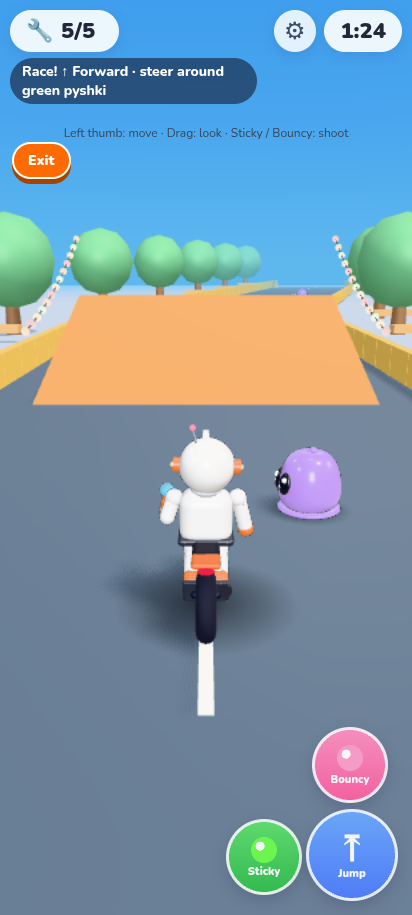
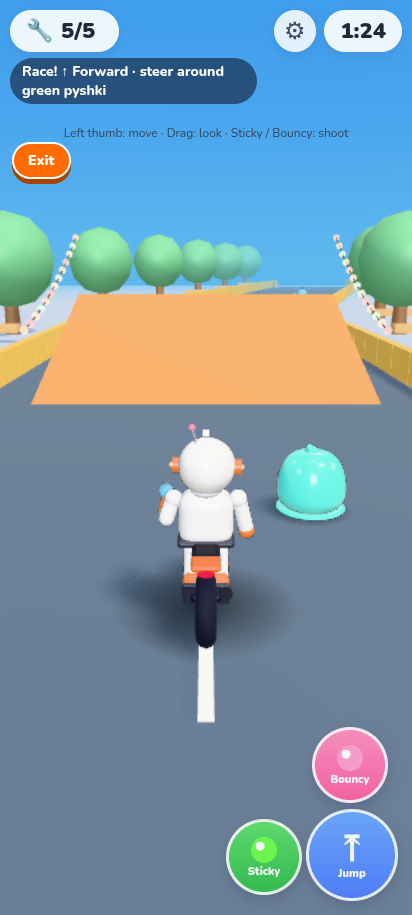
Add level 2 coastal race course and scooter handling

diff --git a/src/render/raceRoad.ts b/src/render/raceRoad.ts
@@ -1,10 +1,20 @@
 import * as THREE from 'three';
 import { Kit, geo } from './materials';
 import { wedge } from './city';
-import { trackAt, TRACK_LENGTH, JUMPS, GAP, TRACK, RAMP_HEIGHT, RAMP_LENGTH } from '../sim/track';
+import { courseAt, COURSE2_SECTIONS } from '../sim/track';
+import type { RaceDef } from '../sim/levels';
 
-// Shared mitered edges: chunks and bends meet at identical vertices without overlapping faces.
-const distances = [0];
+export type RoadTheme = 'city' | 'harbor';
+
+export function buildRaceRoad(race: RaceDef, theme: RoadTheme) {
+  const course = race.course, TRACK = course.points, TRACK_LENGTH = course.length;
+  const trackAt = (d: number) => courseAt(course, d);
+  const { jumps: JUMPS, gap: GAP, rampHeight: RAMP_HEIGHT, rampLength: RAMP_LENGTH } = course;
+  const harbor = theme === 'harbor';
+  const [boardFrom, boardTo] = COURSE2_SECTIONS.boardwalk;
+  const onBoardwalk = (d: number) => harbor && d >= boardFrom && d < boardTo;
+  // Shared mitered edges: chunks and bends meet at identical vertices without overlapping faces.
+  const distances = [0];
 for (let i = 1; i < TRACK.length; i++) distances.push(distances[i - 1] + Math.hypot(TRACK[i].x - TRACK[i - 1].x, TRACK[i].z - TRACK[i - 1].z));
 const edges = TRACK.map((_, i) => {
   const a = trackAt(Math.max(0, distances[i] - 0.001)), b = trackAt(distances[i] + 0.001);
@@ -12,7 +22,7 @@ const edges = TRACK.map((_, i) => {
   const scale = 1 / (nx * -b.dz + nz * b.dx);
   return { x: nx * scale, z: nz * scale };
 });
-function roadPoint(d: number, lane: number) {
+  function roadPoint(d: number, lane: number) {
   let i = 0;
   while (i < TRACK.length - 2 && d > distances[i + 1]) i++;
   const t = (d - distances[i]) / (distances[i + 1] - distances[i]);
@@ -20,24 +30,52 @@ function roadPoint(d: number, lane: number) {
     0.015, TRACK[i].z + (TRACK[i + 1].z - TRACK[i].z) * t + lane * (edges[i].z + (edges[i + 1].z - edges[i].z) * t)];
 }
 
-export function buildRaceRoad() {
   const root = new THREE.Group();
+  const RAIL = harbor ? 0xf4f7fb : 0xf6cc69;
+  if (harbor) {
+    // One sea plane under the whole coast; the road reads as a causeway.
+    const sea = new THREE.Mesh(new THREE.PlaneGeometry(700, 700).rotateX(-Math.PI / 2), new THREE.MeshStandardMaterial({ color: 0x2fb5c9, roughness: 0.25 }));
+    sea.position.set(160, -0.3, -170); sea.name = 'race-sea'; sea.receiveShadow = true;
+    root.add(sea);
+  }
   for (let start = 0; start < TRACK_LENGTH; start += 70) {
     const k = new Kit(), end = Math.min(start + 70, TRACK_LENGTH);
-    const cuts = [start, ...distances.filter(d => d > start && d < end), ...[GAP.start, GAP.end].filter(d => d > start && d < end), end].sort((a, b) => a - b);
-    const vertices: number[] = [];
+    const gapCuts = GAP ? [GAP.start, GAP.end] : [];
+    const cuts = [start, ...distances.filter(d => d > start && d < end), ...gapCuts.filter(d => d > start && d < end), end].sort((a, b) => a - b);
+    const surfaces = new Map<number, number[]>();
     for (let i = 1; i < cuts.length; i++) {
-      const a = cuts[i - 1], b = cuts[i], left = a >= GAP.start && a < GAP.end ? 0 : -7;
+      const a = cuts[i - 1], b = cuts[i], left = GAP && a >= GAP.start && a < GAP.end ? 0 : -7;
       const al = roadPoint(a, left), ar = roadPoint(a, 7), bl = roadPoint(b, left), br = roadPoint(b, 7);
-      vertices.push(...al, ...ar, ...bl, ...ar, ...br, ...bl);
+      const color = onBoardwalk(a) ? 0xb4794b : harbor ? 0x5d6a7a : 0x596b80;
+      if (!surfaces.has(color)) surfaces.set(color, []);
+      surfaces.get(color)!.push(...al, ...ar, ...bl, ...ar, ...br, ...bl);
+      if (harbor && !onBoardwalk(a)) {
+        // stone causeway skirt down to the water on both sides
+        for (const side of [-7, 7]) {
+          const p0 = roadPoint(a, side), p1 = roadPoint(b, side);
+          surfaces.set(0xc9c2b4, [...(surfaces.get(0xc9c2b4) ?? []), p0[0], -0.35, p0[2], p1[0], -0.35, p1[2], p0[0], 0.01, p0[2], p1[0], -0.35, p1[2], p1[0], 0.01, p1[2], p0[0], 0.01, p0[2]]);
+        }
+      }
     }
-    const pavement = new THREE.BufferGeometry();
-    pavement.setAttribute('position', new THREE.Float32BufferAttribute(vertices, 3)); pavement.computeVertexNormals();
-    k.add(pavement, 0x596b80, { cast: false }); pavement.dispose();
+    for (const [color, vertices] of surfaces) {
+      const g = new THREE.BufferGeometry();
+      g.setAttribute('position', new THREE.Float32BufferAttribute(vertices, 3)); g.computeVertexNormals();
+      k.add(g, color, { cast: false, finish: color === 0xb4794b ? 'soft' : 'matte' }); g.dispose();
+    }
     for (let d = start; d < end; d += 2) {
-      const p = trackAt(d + 1), length = Math.min(2.1, end - d + 0.1);
-      for (const side of [-1, 1]) k.add(new THREE.BoxGeometry(0.35, 1.1, length), 0xf6cc69, { p: [p.x - p.dz * side * 6.8, 0.55, p.z + p.dx * side * 6.8], r: [0, p.yaw, 0] });
-      if (d % 8 < 2) k.add(new THREE.BoxGeometry(0.15, 0.025, 2), 0xffffff, { p: [p.x, 0.065, p.z], r: [0, p.yaw, 0] });
+      const p = trackAt(d + 1), length = Math.min(2.1, end - d + 0.1), board = onBoardwalk(d);
+      if (board) {
+        // plank seams, low wooden rail with posts
+        k.add(new THREE.BoxGeometry(14, 0.02, 0.06), 0x8a5a38, { p: [p.x, 0.03, p.z], r: [0, p.yaw, 0], cast: false });
+        for (const side of [-1, 1]) {
+          k.add(new THREE.BoxGeometry(0.2, 0.2, length), 0xfffaf0, { p: [p.x - p.dz * side * 6.8, 1, p.z + p.dx * side * 6.8], r: [0, p.yaw, 0] });
+          k.add(new THREE.BoxGeometry(0.22, 1, 0.22), 0x8a5a38, { p: [p.x - p.dz * side * 6.8, 0.5, p.z + p.dx * side * 6.8], r: [0, p.yaw, 0] });
+        }
+      } else {
+        for (const side of [-1, 1]) k.add(new THREE.BoxGeometry(0.35, 1.1, length), RAIL, { p: [p.x - p.dz * side * 6.8, 0.55, p.z + p.dx * side * 6.8], r: [0, p.yaw, 0] });
+        if (harbor && d % 4 < 2) for (const side of [-1, 1]) k.add(new THREE.BoxGeometry(0.37, 0.25, 2.12), 0x2f6fb5, { p: [p.x - p.dz * side * 6.8, 0.85, p.z + p.dx * side * 6.8], r: [0, p.yaw, 0], cast: false });
+        if (d % 8 < 2) k.add(new THREE.BoxGeometry(0.15, 0.025, 2), 0xffffff, { p: [p.x, 0.065, p.z], r: [0, p.yaw, 0] });
+      }
     }
     // Round off polyline joins so the outside of each bend has continuous pavement.
     let progress = 0;
@@ -48,12 +86,14 @@ export function buildRaceRoad() {
       for (const side of [-1, 1]) {
         const ax = node.x - a.dz * side * 6.8, az = node.z + a.dx * side * 6.8;
         const bx = node.x - b.dz * side * 6.8, bz = node.z + b.dx * side * 6.8;
-        k.add(new THREE.BoxGeometry(0.4, 1.1, Math.hypot(bx - ax, bz - az) + 0.4), 0xf6cc69,
+        k.add(new THREE.BoxGeometry(0.4, 1.1, Math.hypot(bx - ax, bz - az) + 0.4), RAIL,
           { p: [(ax + bx) / 2, 0.55, (az + bz) / 2], r: [0, Math.atan2(bx - ax, bz - az), 0] });
       }
     }
     for (let d = start + 8; d < end; d += 14) {
-      const p = trackAt(d), section = Math.floor(start / 140);
+      const p = trackAt(d);
+      if (harbor) { harborScenery(k, d, p); continue; }
+      const section = Math.floor(start / 140);
       for (const side of [-1, 1]) {
         const x = p.x - p.dz * side * 11, z = p.z + p.dx * side * 11;
         if (section === 0) {
@@ -76,8 +116,8 @@ export function buildRaceRoad() {
     }
     const bulbs: THREE.Vector3[] = [];
     for (const d of JUMPS.filter(d => d >= start && d < end)) {
-      const p = trackAt(d + 4), optional = d === 350, lane = optional ? -3.5 : 0;
-      k.add(wedge(RAMP_LENGTH, RAMP_HEIGHT, optional ? 5 : 10, 0), 0xffae50, { p: [p.x - p.dz * lane, 0, p.z + p.dx * lane], r: [0, Math.PI / 2 + p.yaw, 0] });
+      const p = trackAt(d + RAMP_LENGTH / 2), optional = d === course.optionalJump, lane = optional ? -3.5 : 0;
+      k.add(wedge(RAMP_LENGTH, RAMP_HEIGHT, optional ? 5 : 10, 0), harbor ? 0x4dc9ff : 0xffae50, { p: [p.x - p.dz * lane, 0, p.z + p.dx * lane], r: [0, Math.PI / 2 + p.yaw, 0] });
       for (const side of [-1, 1]) {
         const points: THREE.Vector3[] = [];
         for (let i = 0; i <= 24; i++) {
@@ -98,28 +138,87 @@ export function buildRaceRoad() {
       bulbs.forEach((p, i) => { lights.setMatrixAt(i, new THREE.Matrix4().makeTranslation(p.x, p.y, p.z)); lights.setColorAt(i, new THREE.Color(colors[i % colors.length])); });
       lights.name = 'ramp-string-lights'; chunk.add(lights);
     }
-     chunk.userData.progress = (start + end) / 2;
+    const mid = trackAt((start + end) / 2);
+    chunk.userData.center = { x: mid.x, z: mid.z };
     root.add(chunk);
   }
+  if (harbor) {
+    // Lighthouse island the final loop rides round.
+    const L = COURSE2_SECTIONS.lighthouse, isle = new Kit();
+    isle.add(geo.cyl(20, 22, 0.6, 40), 0xe9d39c, { p: [L.x, -0.25, L.z], cast: false });
+    isle.add(geo.cyl(13, 16, 1.2, 32), 0x8cbf5a, { p: [L.x, 0, L.z], cast: false });
+    for (let a = 0; a < 9; a++) isle.add(geo.sphere(1.6, 10, 8), 0x9c9587, { p: [L.x + Math.cos(a * 0.7) * 17, 0, L.z + Math.sin(a * 0.7) * 17], s: [1.3, 0.7, 1] });
+    for (let b = 0; b < 8; b++) isle.add(geo.cyl(2.6 - b * 0.12, 2.7 - b * 0.12, 2.6, 24), b % 2 ? 0xe63946 : 0xfffaf0, { p: [L.x, 1.3 + b * 2.6, L.z], finish: 'gloss' });
+    isle.add(geo.cyl(1.4, 1.4, 1.8, 16), 0xfff4c2, { p: [L.x, 22.6, L.z], finish: 'glow' });
+    isle.add(geo.cone(2.2, 2, 20), 0xe63946, { p: [L.x, 24.5, L.z], finish: 'gloss' });
+    isle.add(geo.cyl(2.4, 2.4, 0.3, 24), 0x23406e, { p: [L.x, 21.6, L.z] });
+    const island = isle.build(); island.userData.center = { x: L.x, z: L.z }; root.add(island);
+  }
   const finish = new Kit(), p = trackAt(TRACK_LENGTH);
-  for (let i = 0; i < 14; i++) for (let j = 0; j < 2; j++) finish.add(new THREE.BoxGeometry(1, 0.03, 1), (i + j) % 2 ? 0xffffff : 0x263046, { p: [p.x - 6.5 + i, 0.04, p.z + j] });
-  for (const x of [-6.5, 6.5]) finish.add(geo.cyl(0.18, 0.18, 6), 0xff5d73, { p: [p.x + x, 3, p.z] });
-  finish.add(new THREE.BoxGeometry(13.5, 1, 0.3), 0xff5d73, { p: [p.x, 5.5, p.z] });
-  const arch = finish.build(); arch.userData.progress = TRACK_LENGTH; root.add(arch);
+  for (let i = 0; i < 14; i++) for (let j = 0; j < 2; j++) finish.add(new THREE.BoxGeometry(1, 0.03, 1), (i + j) % 2 ? 0xffffff : 0x263046, { p: [p.x - p.dz * (-6.5 + i) + p.dx * j, 0.04, p.z + p.dx * (-6.5 + i) + p.dz * j], r: [0, p.yaw, 0] });
+  for (const x of [-6.5, 6.5]) finish.add(geo.cyl(0.18, 0.18, 6), 0xff5d73, { p: [p.x - p.dz * x, 3, p.z + p.dx * x] });
+  finish.add(new THREE.BoxGeometry(13.5, 1, 0.3), 0xff5d73, { p: [p.x, 5.5, p.z], r: [0, p.yaw, 0] });
+  const arch = finish.build(); arch.userData.center = { x: p.x, z: p.z }; root.add(arch);
+  const G = race.gate, gz = (G.minZ + G.maxZ) / 2, gw = G.maxX - G.minX, gx = (G.minX + G.maxX) / 2;
   const entrance = new Kit();
-  for (const x of [2, 9]) entrance.add(geo.capsule(0.24, 4.5), 0x57ff83, { p: [x, 2.25, 10], cast: false });
-  entrance.add(geo.rbox(7.5, 0.55, 0.55), 0x57ff83, { p: [5.5, 4.3, 10], cast: false });
+  for (const x of [G.minX, G.maxX]) entrance.add(geo.capsule(0.24, 4.5), 0x57ff83, { p: [x, 2.25, gz], cast: false });
+  entrance.add(geo.rbox(gw + 0.5, 0.55, 0.55), 0x57ff83, { p: [gx, 4.3, gz], cast: false });
   const portal = entrance.build(false); portal.name = 'race-gate-arch';
   const archMaterial = new THREE.MeshStandardMaterial({ vertexColors: true, emissive: 0x22ff55, emissiveIntensity: 1, roughness: 0.25 });
   (portal.children[0] as THREE.Mesh).material = archMaterial;
   const pointer = new Kit();
   pointer.add(geo.rbox(0.65, 1.65, 0.65), 0xffda45, { p: [0, 0.8, 0], finish: 'gloss', cast: false });
   pointer.add(geo.cone(1.1, 1.25, 4), 0xffda45, { p: [0, -0.5, 0], r: [Math.PI, 0, 0], finish: 'gloss', cast: false });
-  const arrow = pointer.build(false); arrow.name = 'race-gate-arrow'; arrow.position.set(5.5, 6.4, 10);
-  // City entrance cues are independent of distant course chunk culling.
+  const arrow = pointer.build(false); arrow.name = 'race-gate-arrow'; arrow.position.set(gx, 6.4, gz);
+  // Entrance cues are independent of distant course chunk culling.
   const cues = new THREE.Group(); cues.add(portal, arrow);
   const bars = new Kit();
-  for (let x = 0; x <= 7; x += 0.5) bars.add(geo.cyl(0.055, 0.055, 3.3), 0xffd166, { p: [x, 1.65, 0] });
-  const gate = bars.build(); gate.position.set(2, 0, 10); root.add(gate);
-  return { root, gate, cues, arrow, archMaterial };
+  for (let x = 0; x <= gw; x += 0.5) bars.add(geo.cyl(0.055, 0.055, 3.3), 0xffd166, { p: [x, 1.65, 0] });
+  // Permanent posts so the open gate still reads as an entrance.
+  const posts = new Kit();
+  for (const x of [G.minX, G.maxX]) posts.add(geo.rbox(0.5, 3.8, 0.5, 0.1), harbor ? 0xfffaf0 : 0xffd166, { p: [x, 1.9, gz], finish: 'gloss' });
+  if (harbor) posts.add(geo.rbox(gw * 0.6, 0.9, 0.12, 0.08), 0x2f6fb5, { p: [gx, 3.4, gz], finish: 'gloss', cast: false });
+  const gate = bars.build(); gate.position.set(G.minX, 0, gz);
+  const entry = posts.build();
+  return { root, gate, cues, arrow, archMaterial, entry, gatePos: { x: G.minX, z: gz } };
+}
+
+/** Coastal road: sea on the left, grassy cliffs and pines on the right. Boardwalk: pilings, lamps. Loop: rocks and buoys. */
+function harborScenery(k: Kit, d: number, p: { x: number; z: number; dx: number; dz: number; yaw: number }) {
+  const [boardFrom, boardTo] = COURSE2_SECTIONS.boardwalk;
+  const side = (s: number, o: number) => [p.x - p.dz * s * o, p.z + p.dx * s * o] as const;
+  if (d < boardFrom) {
+    const [lx, lz] = side(1, 16);
+    k.add(new THREE.BoxGeometry(18, 2.4, 15), 0x8cbf5a, { p: [lx, 0.9, lz], r: [0, p.yaw, 0], cast: false });
+    k.add(new THREE.BoxGeometry(18.2, 2, 15.2), 0xd8c08a, { p: [lx, -0.2, lz], r: [0, p.yaw, 0], cast: false });
+    const [tx, tz] = side(1, 12 + (d % 3));
+    k.add(geo.cyl(0.25, 0.35, 2.6, 8), 0x8a5a38, { p: [tx, 3.2, tz] });
+    k.add(geo.cone(2, 4, 8), 0x3f8f5a, { p: [tx, 5.6, tz] });
+    const [rx, rz] = side(-1, 9 + (d % 5));
+    k.add(geo.sphere(1.2, 8, 6), 0x9c9587, { p: [rx, -0.1, rz], s: [1.4, 0.8, 1.1] });
+    if (d % 28 < 14) {
+      const [bx, bz] = side(-1, 24);
+      k.add(geo.sphere(0.5, 10, 8), 0xff5d5d, { p: [bx, -0.1, bz], finish: 'gloss' });
+      k.add(geo.cone(0.25, 0.8, 8), 0xff5d5d, { p: [bx, 0.5, bz], finish: 'gloss' });
+    }
+  } else if (d < boardTo) {
+    for (const s of [-1, 1]) {
+      const [px, pz] = side(s, 6.3);
+      k.add(geo.cyl(0.25, 0.25, 1.4, 8), 0x6e4a2e, { p: [px, -0.6, pz] });
+      if (d % 28 < 14) {
+        const [lx, lz] = side(s, 7.2);
+        k.add(geo.cyl(0.07, 0.09, 4, 8), 0x23406e, { p: [lx, 2, lz], finish: 'metal' });
+        k.add(geo.sphere(0.28, 10, 8), 0xfff3b0, { p: [lx, 4.1, lz], finish: 'glow' });
+      }
+    }
+    if (d % 42 < 14) {
+      const [bx, bz] = side(1, 7.05);
+      k.add(geo.torus(0.35, 0.1, Math.PI * 2, 16), 0xff5d5d, { p: [bx, 0.9, bz], r: [0, p.yaw + Math.PI / 2, 0], finish: 'gloss', cast: false });
+    }
+  } else {
+    for (const s of [-1, 1]) {
+      const [rx, rz] = side(s, 10 + (d % 4));
+      k.add(geo.sphere(1.3, 8, 6), 0xa39c8e, { p: [rx, -0.1, rz], s: [1.3, 0.7, 1.2] });
+    }
+  }
 }

diff --git a/src/render/view.ts b/src/render/view.ts
@@ -1,4 +1,3 @@
-import { trackAt } from '../sim/track';
 import { raceOf } from '../sim/race';
 import { buildHarbor } from './harbor';
 import { buildRaceRoad } from './raceRoad';
@@ -124,7 +123,9 @@ export class GameView {
     this.scene.add(this.sky);
 
     if (raceOf(state)) {
-      const road = buildRaceRoad(); this.gateCues = road.cues; this.gateArrow = road.arrow; this.gateArchMaterial = road.archMaterial; this.scene.add(road.cues); this.road = road.root; this.scene.add(road.root); this.gate = road.gate; road.root.remove(road.gate); this.scene.add(road.gate); road.gate.position.set(2, 0, 10);
+      const road = buildRaceRoad(raceOf(state)!, state.world.theme);
+      this.gateCues = road.cues; this.gateArrow = road.arrow; this.gateArchMaterial = road.archMaterial; this.gate = road.gate; this.road = road.root;
+      this.scene.add(road.cues, road.root, road.gate, road.entry);
     }
     let blockers: Solid[] = [];
     if (state.world.theme === 'harbor') {
@@ -301,8 +302,8 @@ export class GameView {
     // Race road only exists for the player once the gates are open (saves ~60k tris + draw calls in the city).
     this.road.visible = !!raceOf(state) && state.race.phase !== 'locked';
     for (const chunk of this.road.children) {
-      const p = trackAt(chunk.userData.progress ?? 0);
-      chunk.visible = this.road.visible && Math.hypot(p.x - this.camera.position.x, p.z - this.camera.position.z) < 120;
+      const c = chunk.userData.center;
+      chunk.visible = this.road.visible && (!c || Math.hypot(c.x - this.camera.position.x, c.z - this.camera.position.z) < 120);
     }
     this.gate.rotation.y = state.race.phase === 'locked' ? 0 : -Math.PI / 2;
     this.lift.position.set(TOWER.liftX, state.elevator.y - 0.1, TOWER.z);

diff --git a/src/sim/track.ts b/src/sim/track.ts
@@ -54,6 +54,14 @@ export const COURSE1 = makeCourse(
   { jumps: [45, 145, 245, 350, 455], optionalJump: 350, gap: { start: 358, end: 363 }, rampHeight: 2.7, rampLength: 8, rail: 6.1 },
 );
 
+// Level 2: coastal road, pier boardwalk with an optional gap, then a loop round the lighthouse. Smaller ramps for the scooter.
+export const COURSE2 = makeCourse(
+  [[120, 10], [120, -40], [135, -90], [120, -140], [135, -190], [135, -290], [135, -330], [150, -356], [180, -356], [195, -330], [205, -300], [205, -250]],
+  { jumps: [20, 120, 225, 255, 480], optionalJump: 255, gap: { start: 262, end: 267 }, rampHeight: 1.8, rampLength: 7, rail: 6.1 },
+);
+/** progress where the boardwalk starts and ends, and the lighthouse the loop goes round */
+export const COURSE2_SECTIONS = { boardwalk: [206.6, 306.6], lighthouse: { x: 167, z: -322 } };
+
 // Level 1 names kept for existing callers and tests.
 export const TRACK = COURSE1.points;
 export const TRACK_LENGTH = COURSE1.length;

diff --git a/src/sim/levels.ts b/src/sim/levels.ts
@@ -1,4 +1,4 @@
-import { COURSE1, courseAt, type Course } from './track';
+import { COURSE1, COURSE2, courseAt, type Course } from './track';
 import type { Solid, Vec3, World } from './types';
 import { MISSION, SCOOTER_MISSION, VEHICLES, type MissionDef } from './vehicles';
 import { CREATURE_SPAWNS, PLAYER_SPAWN, createWorld } from './world';
@@ -56,7 +56,13 @@ const LEVEL2: LevelDef = {
   creatureSpawns: HARBOR_CREATURES,
   mission: SCOOTER_MISSION,
   tower: false,
-  race: null,
+  race: {
+    course: COURSE2,
+    gate: { minX: 26, maxX: 33, minY: 0, maxY: 3.5, minZ: 9.7, maxZ: 10.1 },
+    trigger: { minX: 26, maxX: 33, minZ: 7, maxZ: 10.3 },
+    gateAt: { x: 29.5, z: 10 },
+    duration: raceDuration(COURSE2, VEHICLES.scooter.maxSpeed),
+  },
 };
 
 export const LEVELS: Record<number, LevelDef> = { 1: LEVEL1, 2: LEVEL2 };

diff --git a/PROGRESS.md b/PROGRESS.md
@@ -94,3 +94,4 @@ Tests:
 - R5.1: Race ramps rise 2.7 m (1.69×), with shared simulation/render height and run, slope-based launch velocity and corrected wedge axis dimensions. Added catenary edge wires and warm multicolour emissive InstancedMesh bulbs, at most one bulb draw per chunk. npm run build, npm test (including steering bot finish), and npm run test:e2e pass. No push.
 - R6.0: Level/course refactor: `sim/levels.ts` LevelDef (world, spawn, pyshki spawns, mission, race gate/trigger/duration, tower flag) and generic `Course` (`makeCourse/courseAt/courseNear`, per-course jumps, optional jump, gap, ramp size, rails). Race finish is progress-based; ramp launch scales by `VehicleDef.launch`. Level 1 unchanged; build, sim and sweep pass.
 - R6.1: Level 2 harbor world (`sim/harbor.ts`, `render/harbor.ts`): seawall promenade, wooden pier with moored boat, stone jetty with striped lighthouse and gallery ramp, beach with lifeguard tower, umbrellas, palms, harbor houses, dunes, warehouses and crane; distinct whitewash/terracotta/sand/sea palette. Four scooter parts on pier end, lighthouse gallery, boat deck and lifeguard tower, all walked and delivered in the reach test; sea is unwalkable, and jumping into water splashes back to the promenade. Level-2 view ~160–280 calls, no city/tower built. Build, sim, sweep pass.
+- R6.2: Level 2 coastal race (`COURSE2`, 518 m, 73 s): coastal causeway with sea/cliff pines, pier boardwalk with an optional left-lane gap over water, loop round a lighthouse island; smaller 1.8 m ramps. Scooter VehicleDef is lighter/nimbler (accel 16, turn 3.4, max 14, hop 5.2, ramp launch ×0.75). Race road renderer is parameterized by RaceDef + theme (gate, cues, posts, chunk centers). Two seeded scooter bots finish in ~50 s with small jumps (<1.8 m). Race views 174–277 calls. Build, sim, sweep pass.
